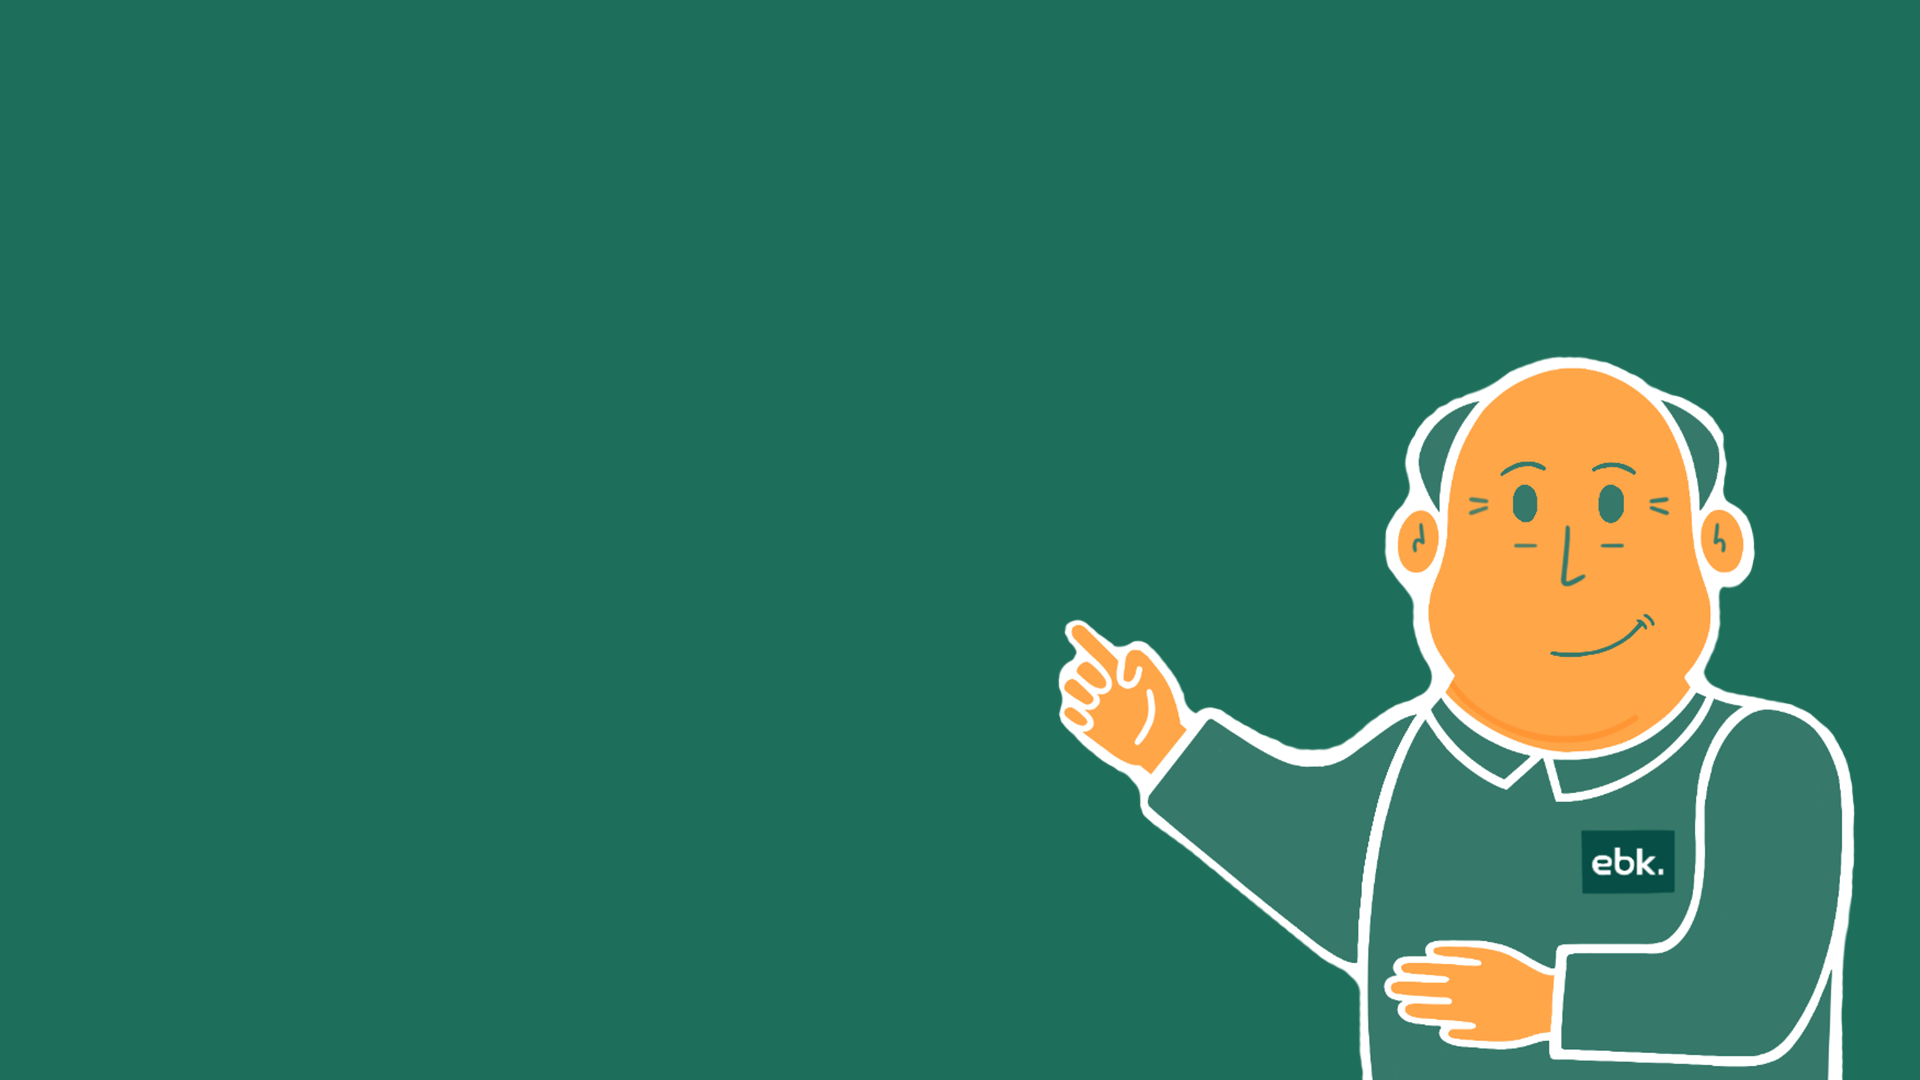
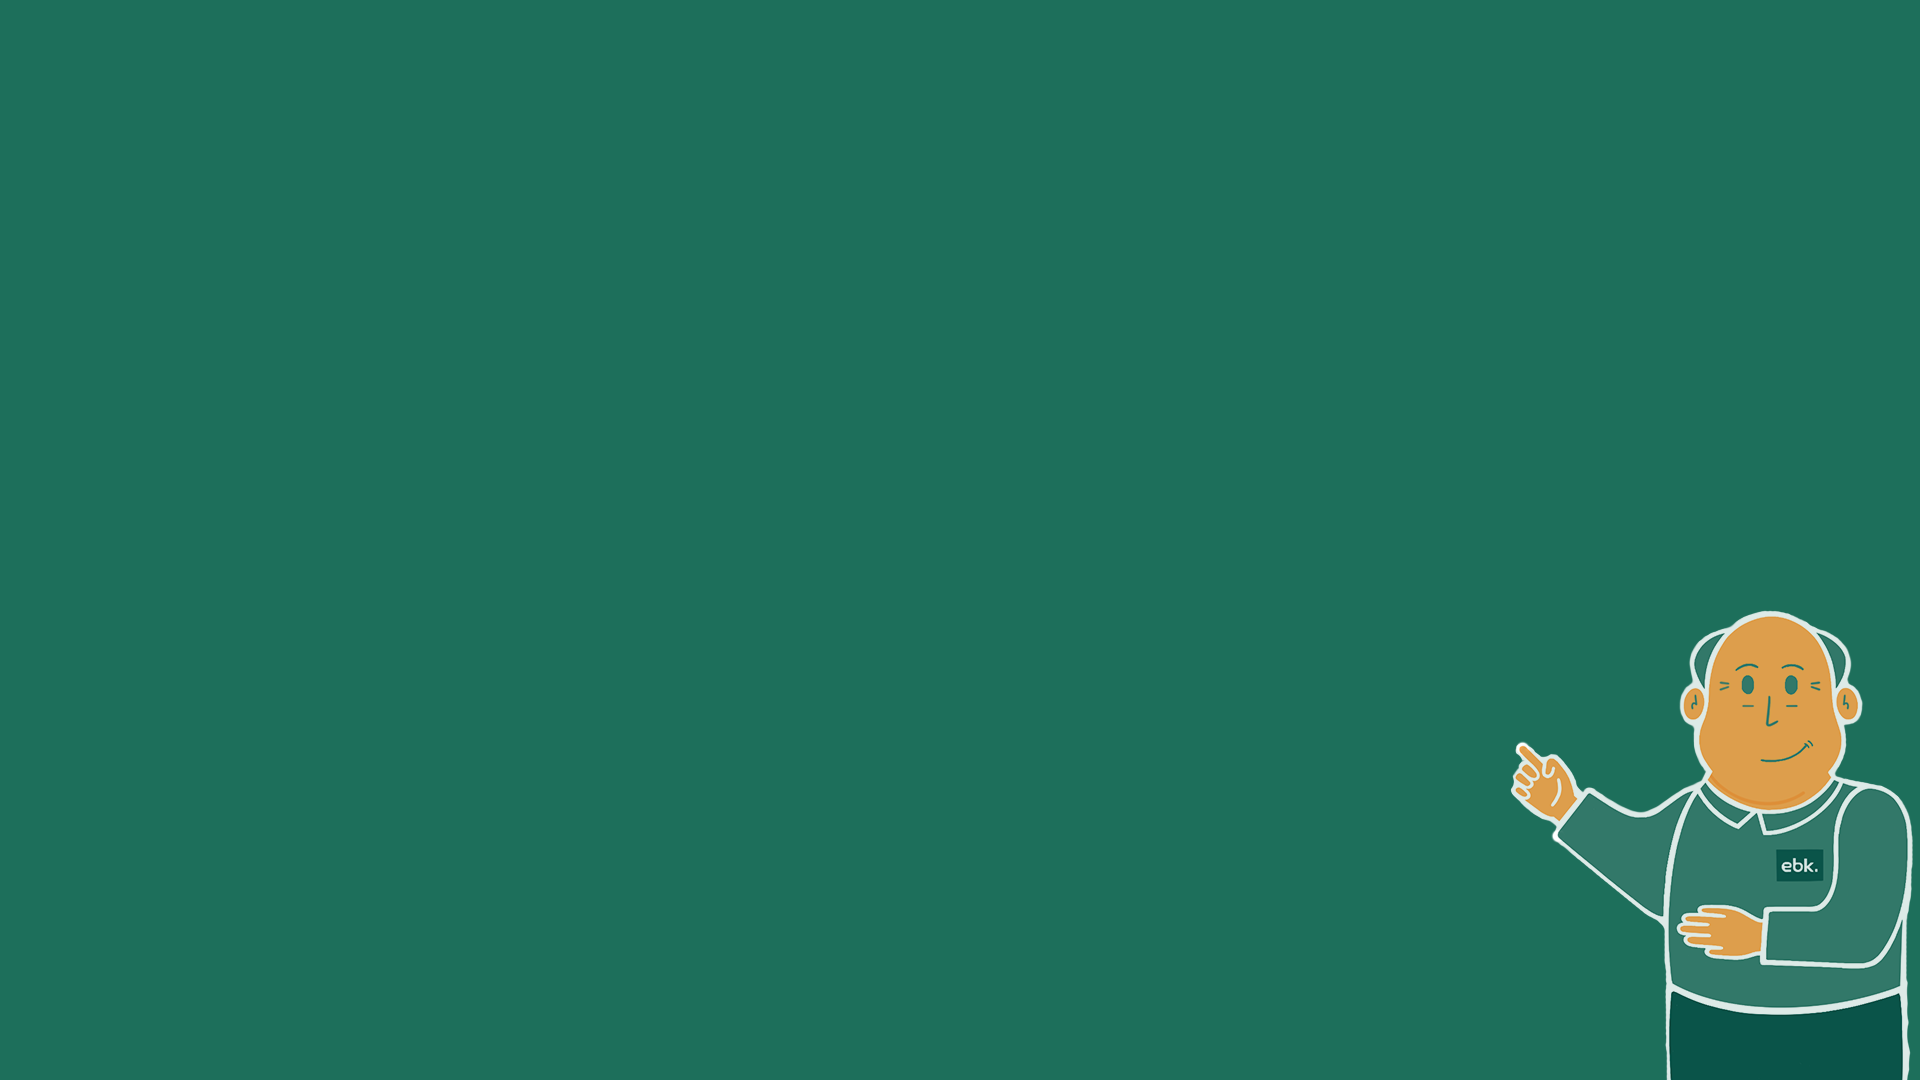
cambio fondo
cambio fondo estebank

Changed region(s): [[0.5312, 0.3056, 1.0, 1.0]]

diff --git a/ESTEBANK/estilos.css b/ESTEBANK/estilos.css
@@ -154,14 +154,17 @@ h4{
 #contenedor-video{
     min-height: 70vh;
    /* background-color: #ff9e40;*/
-    background-color: #1D6F5B;
+   /* background-color: #1D6F5B;*/
     /*border: 1px solid rgba(0,0,0,.125);*/
     padding: 8%;
+    background-image: url(assets/img/fondoestebankverde.png);
+    background-position: center;
+    background-size: cover;
 }
 
 #bloque-explicacion{
     min-height: 60 vh;
-    background-color: #ffffff;
+    background-color: #ffffffcf;
     border: 1px solid rgba(0,0,0,.125);
     border-radius: 25px;
     padding: 3%;
